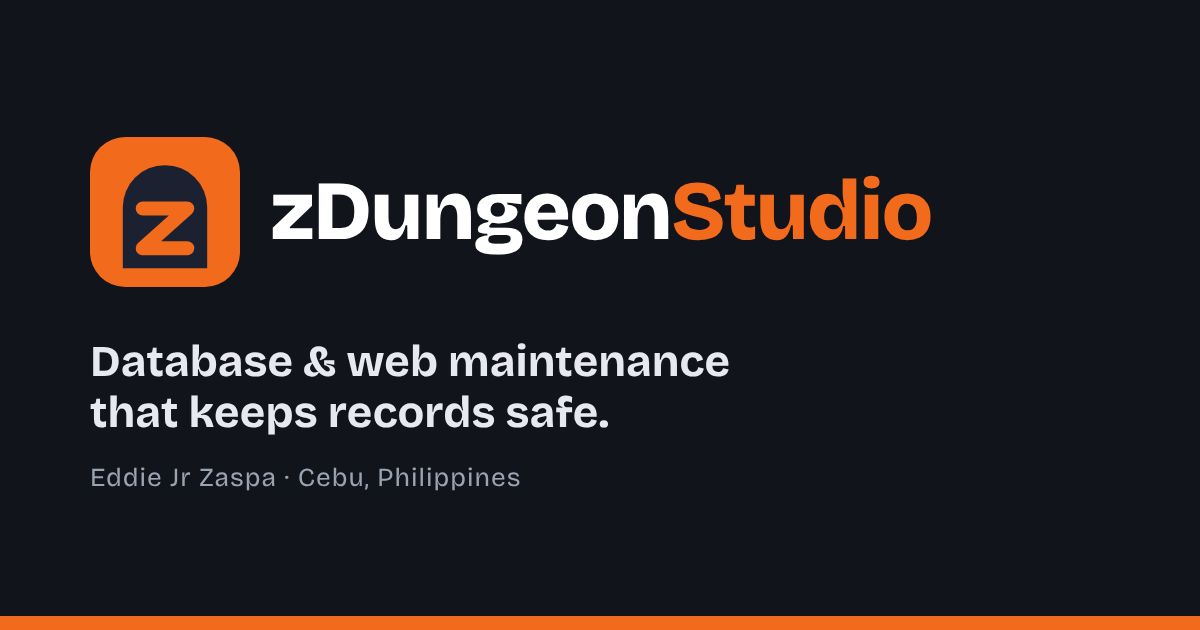
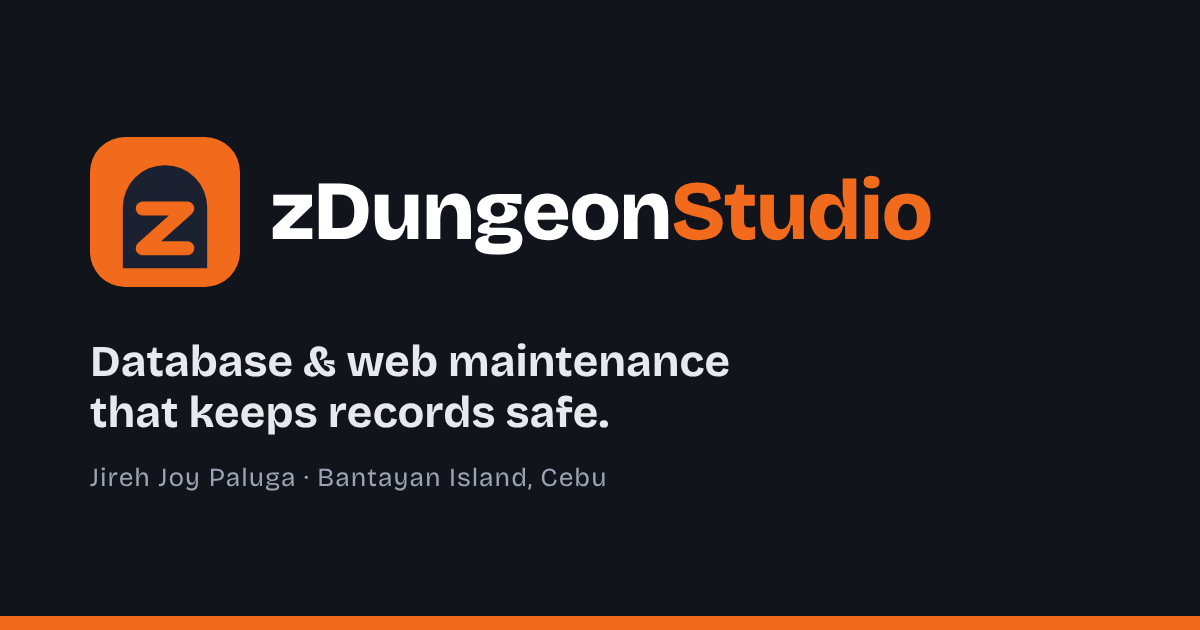
Change partner name to Jireh Joy Paluga
Replaces Eddie Jr Zaspa throughout the site and README, removes his
photo in favor of a JP initials badge, and updates the share image.

Claude-Session: https://claude.ai/code/session_01Lu3wtGFPBNSVVY9GqWh9Lz

Changed region(s): [[0.0617, 0.7238, 0.5242, 0.7841]]

diff --git a/index.html b/index.html
@@ -4,8 +4,8 @@
 <meta charset="utf-8">
 <meta name="viewport" content="width=device-width,initial-scale=1,viewport-fit=cover">
 <title>zDungeonStudio · Freelance Database &amp; Web Maintenance</title>
-<meta name="description" content="Eddie Jr Zaspa hosts, backs up, secures and fixes the databases and websites that offices depend on. Serving Bantayan Island, Cebu.">
-<meta name="author" content="Eddie Jr Zaspa">
+<meta name="description" content="Jireh Joy Paluga hosts, backs up, secures and fixes the databases and websites that offices depend on. Serving Bantayan Island, Cebu.">
+<meta name="author" content="Jireh Joy Paluga">
 <meta name="theme-color" content="#F26A1B">
 <link rel="canonical" href="https://schorzen.github.io/zDungeonStudio/">
 <link rel="icon" type="image/svg+xml" href="assets/favicon.svg">
@@ -13,7 +13,7 @@
 <meta property="og:type" content="website">
 <meta property="og:site_name" content="zDungeonStudio">
 <meta property="og:title" content="zDungeonStudio · Freelance Database &amp; Web Maintenance">
-<meta property="og:description" content="Hosting, backups, security and fixes for the databases and websites offices depend on. By Eddie Jr Zaspa, Cebu.">
+<meta property="og:description" content="Hosting, backups, security and fixes for the databases and websites offices depend on. By Jireh Joy Paluga, Cebu.">
 <meta property="og:url" content="https://schorzen.github.io/zDungeonStudio/">
 <meta property="og:image" content="https://schorzen.github.io/zDungeonStudio/assets/og-image.png">
 <meta property="og:image:width" content="1200">
@@ -60,7 +60,8 @@ nav a{color:var(--dim);text-decoration:none}nav a:hover{color:var(--ink)}
 .hero h1{font-size:clamp(38px,6vw,64px);font-weight:800;letter-spacing:-.025em;margin:14px 0 18px}
 .hero h1 span{color:var(--torch)}
 .who{display:flex;align-items:center;gap:12px}
-.who img{width:52px;height:52px;border-radius:50%;object-fit:cover;border:2px solid var(--brand);flex:none}
+.ini{display:grid;place-items:center;width:52px;height:52px;border-radius:50%;background:var(--brand);color:var(--on-brand);font-family:var(--display);font-weight:800;font-size:19px;flex:none}
+.ini.big{width:72px;height:72px;font-size:26px}
 .lead{font-size:18px;color:var(--dim);max-width:34em;margin:0 0 26px}
 .cta{display:flex;gap:12px;flex-wrap:wrap}
 .btn{display:inline-flex;align-items:center;gap:8px;padding:12px 18px;border-radius:10px;font-weight:600;font-size:15px;text-decoration:none;border:1px solid transparent}
@@ -117,7 +118,6 @@ section h2{font-size:clamp(28px,4vw,38px);font-weight:700;letter-spacing:-.02em;
 .card span{color:var(--dim);font-size:14px}
 .card b{font-family:var(--mono);font-weight:600;user-select:all;overflow-wrap:anywhere}
 .person{align-items:center;justify-content:flex-start!important;gap:14px;padding-bottom:12px;border-bottom:1px solid var(--line)}
-.person img{width:72px;height:72px;border-radius:50%;object-fit:cover;flex:none}
 .person b{font-family:var(--display);font-size:20px;user-select:auto}
 .person span{display:block}
 .fine{font-size:13px;color:var(--dim);margin:0}
@@ -158,16 +158,16 @@ footer{padding-block:30px 40px;color:var(--dim);font-size:13px;display:flex;just
   <svg class="mark" viewBox="0 0 64 64" aria-hidden="true"><rect width="64" height="64" rx="15" fill="#F26A1B"/><path d="M14 56V30a18 18 0 0 1 36 0v26z" fill="#1B2130"/><path d="M22.5 30.5h19L22.5 47.5h19" fill="none" stroke="#F26A1B" stroke-width="6" stroke-linecap="round" stroke-linejoin="round"/></svg>
   <span>zDungeon<b>Studio</b></span>
  </a>
- <nav aria-label="Sections"><a href="#services">Services</a><a href="#work">Work</a><a href="#hire">Hire Eddie</a><a href="#how">How it works</a><a href="#contact">Contact</a></nav>
+ <nav aria-label="Sections"><a href="#services">Services</a><a href="#work">Work</a><a href="#hire">Hire Jireh</a><a href="#how">How it works</a><a href="#contact">Contact</a></nav>
 </header>
 
 <main id="main">
 <div class="hero" id="top">
  <div>
-  <div class="who"><img src="assets/eddie.jpg" alt="Eddie Jr Zaspa" width="52" height="52"><div class="eyebrow">Eddie Jr Zaspa · Freelance</div></div>
+  <div class="who"><span class="ini" aria-hidden="true">JP</span><div class="eyebrow">Jireh Joy Paluga · Freelance</div></div>
   <h1>Database &amp; web maintenance that <span>keeps records safe</span>.</h1>
   <p class="lead">I host, back up, secure and fix the databases and websites that offices depend on every day, so the people using them never have to think about it.</p>
-  <div class="cta"><a class="btn main" href="#hire">Hire Eddie</a><a class="btn ghost" href="#work">See recent work</a></div>
+  <div class="cta"><a class="btn main" href="#hire">Hire Jireh</a><a class="btn ghost" href="#work">See recent work</a></div>
  </div>
  <div class="console" role="img" aria-label="Example maintenance status panel">
   <div class="ctop"><span>records-db · status</span><span class="pill"><i></i>Healthy</span></div>
@@ -215,15 +215,15 @@ footer{padding-block:30px 40px;color:var(--dim);font-size:13px;display:flex;just
 </section>
 
 <section id="hire">
- <div class="eyebrow">Hire Eddie</div>
- <h2>Book, pay online, and Eddie comes to you</h2>
+ <div class="eyebrow">Hire Jireh</div>
+ <h2>Book, pay online, and Jireh comes to you</h2>
  <p class="sub">For homes, shops, resorts and offices on Bantayan Island. Four steps from booking to handover.</p>
  <div class="hire">
   <ol class="flow">
-   <li><div><b>Book</b><span>Message Eddie with what you need: a database, a website, or fixes to one you already have. He replies with the price and a visit date.</span></div></li>
+   <li><div><b>Book</b><span>Message Jireh with what you need: a database, a website, or fixes to one you already have. Jireh replies with the price and a visit date.</span></div></li>
    <li><div><b>Pay online</b><span>Pay through GCash or Maya to confirm your booking, then send a screenshot of your payment.</span></div></li>
-   <li><div><b>Site visit</b><span>Eddie comes to your place on the agreed date and sets everything up or fixes it with you.</span></div></li>
-   <li><div><b>Handover</b><span>Eddie gives you every account, password and admin access, in person. You own all of it, and the job is done.</span></div></li>
+   <li><div><b>Site visit</b><span>Jireh comes to your place on the agreed date and sets everything up or fixes it with you.</span></div></li>
+   <li><div><b>Handover</b><span>Jireh gives you every account, password and admin access, in person. You own all of it, and the job is done.</span></div></li>
   </ol>
   <div class="side">
    <div class="box">
@@ -236,9 +236,9 @@ footer{padding-block:30px 40px;color:var(--dim);font-size:13px;display:flex;just
     <div class="pay">
      <div><span>GCash</span><b>To be added</b></div>
      <div><span>Maya</span><b>To be added</b></div>
-     <div><span>Account name</span><b>Eddie Jr Zaspa</b></div>
+     <div><span>Account name</span><b>Jireh Joy Paluga</b></div>
     </div>
-    <a class="btn main" href="#contact">Book Eddie</a>
+    <a class="btn main" href="#contact">Book Jireh</a>
    </div>
    <div class="box safe">
     <h3>Your accounts stay safe</h3>
@@ -268,7 +268,7 @@ footer{padding-block:30px 40px;color:var(--dim);font-size:13px;display:flex;just
    <p class="fine">Self-employed and BIR-registered. Your records stay yours: full access and backups are handed over whenever you ask.</p>
   </div>
   <div class="card">
-   <div class="person"><img src="assets/eddie.jpg" alt="Photo of Eddie Jr Zaspa" width="72" height="72" loading="lazy"><div><b>Eddie Jr Zaspa</b><span>Database &amp; web maintenance</span></div></div>
+   <div class="person"><span class="ini big" aria-hidden="true">JP</span><div><b>Jireh Joy Paluga</b><span>Database &amp; web maintenance</span></div></div>
    <div><span>Mobile</span><b>To be added</b></div>
    <div><span>Email</span><b>To be added</b></div>
    <div><span>Service area</span><b>Bantayan Island, Cebu</b></div>
@@ -277,7 +277,7 @@ footer{padding-block:30px 40px;color:var(--dim);font-size:13px;display:flex;just
 </section>
 </main>
 
-<footer><span>© 2026 zDungeonStudio · Eddie Jr Zaspa</span><span>Freelance Database &amp; Web Maintenance</span></footer>
+<footer><span>© 2026 zDungeonStudio · Jireh Joy Paluga</span><span>Freelance Database &amp; Web Maintenance</span></footer>
 </div>
 </body>
 </html>

diff --git a/README.md b/README.md
@@ -1,6 +1,6 @@
 # zDungeonStudio
 
-Website for zDungeonStudio, freelance database and web maintenance by Eddie Jr Zaspa (Cebu, Philippines).
+Website for zDungeonStudio, freelance database and web maintenance by Jireh Joy Paluga (Cebu, Philippines).
 
 Live: https://schorzen.github.io/zDungeonStudio/
 
